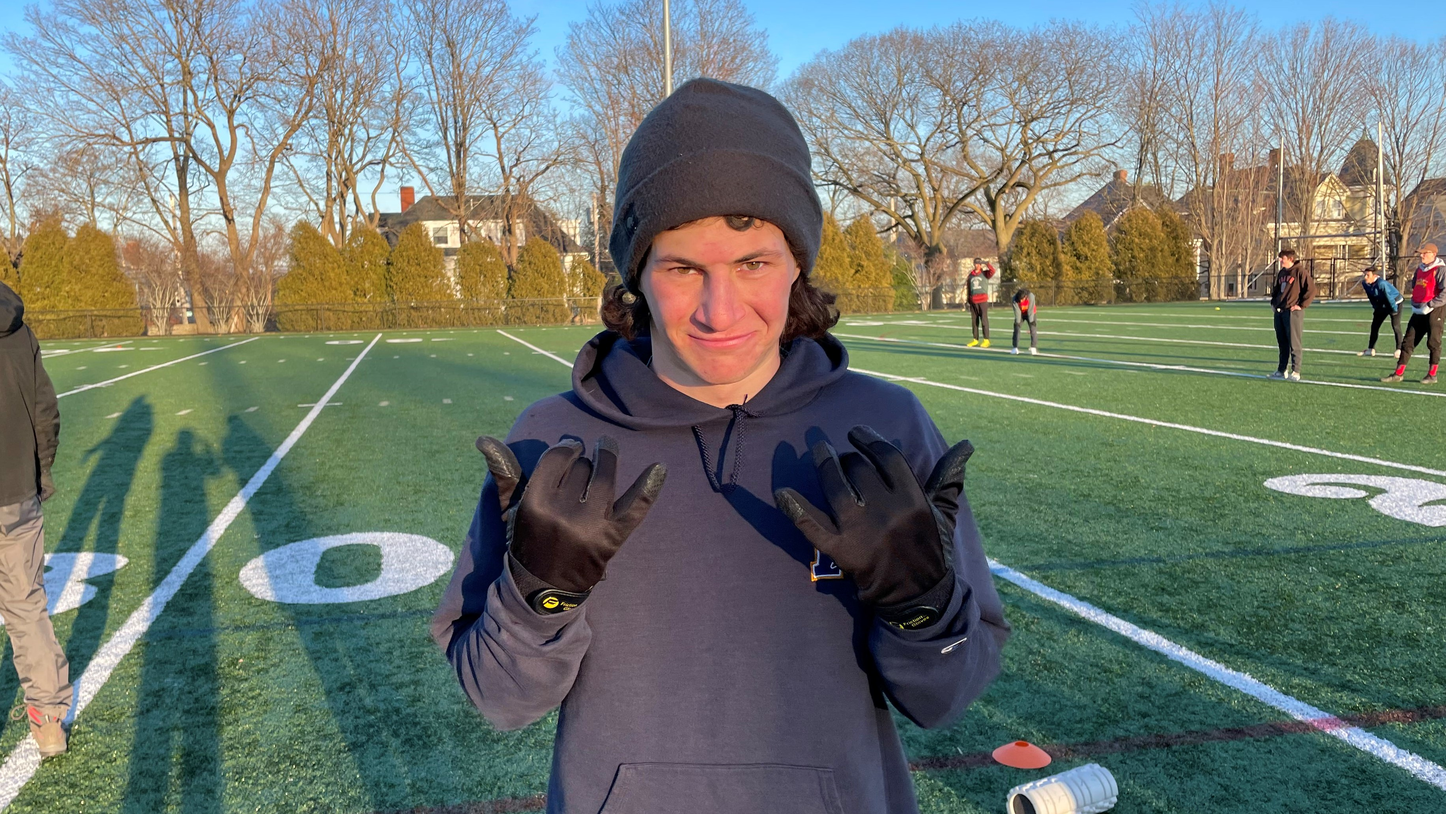
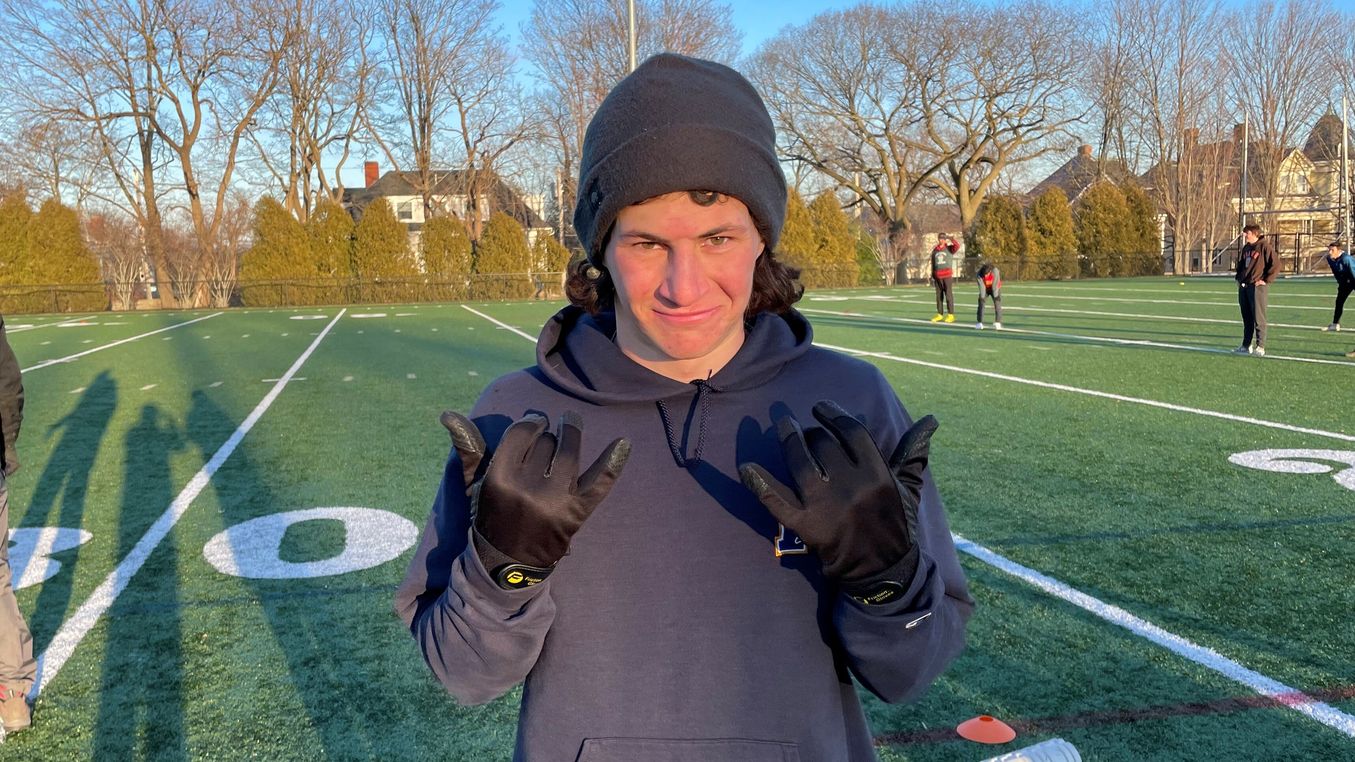
pic cropping and minor changes

diff --git a/roster.html b/roster.html
@@ -71,30 +71,33 @@
 						<div class="container">
 						  <h2>Caleb Moran</h2>
 						  <p>Class year: 2025</p>
+							<p>Hometown: Arlington, VA</p>
 						  <p>Nickname: Cleb</p>
 						  <button class="button" onclick="onbtnclick('popup', 'cleb')">More</button>
 						</div>
 					  </div>
 					</div>
-				  
+
 					<div class="column">
 						<div class="card">
 						  <img src="photos/images/biopics/yut.jpg" alt="Yut" class="biopic">
 						  <div class="container">
 							<h2>Elliott Rosenberg</h2>
 							<p>Class year: 2024</p>
+							<p>Hometown: Oakland, CA</p>
 							<p>Nickname: Yut</p>
 							<button class="button" onclick="onbtnclick('popup', 'yut')">More</button>
 						  </div>
 						</div>
 					  </div>
-				  
+
 					  <div class="column">
 						<div class="card">
 						  <img src="photos/images/biopics/dyl.jpg" alt="Dyl" class="biopic">
 						  <div class="container">
 							<h2>Dylan Villeneuve</h2>
 							<p>Class year: 2022</p>
+							<p>Hometown: Berkeley, CA</p>
 							<p>Nickname: Dyl</p>
 							<button class="button" onclick="onbtnclick('popup', 'dyl')">More</button>
 						  </div>
@@ -107,6 +110,7 @@
 						  <div class="container">
 							<h2>Cameron Curney</h2>
 							<p>Class year: 2024</p>
+							<p>Hometown: Abington, MA</p>
 							<p>Nickname: Cam</p>
 							<button class="button" onclick="onbtnclick('popup', 'cam')">More</button>
 						  </div>
@@ -119,6 +123,7 @@
 						  <div class="container">
 							<h2>Luca Duclos-Orsello</h2>
 							<p>Class year: 2024</p>
+							<p>Hometown: Somerville, MA</p>
 							<p>Nickname: The Cheesman of North Ubmria</p>
 							<button class="button" onclick="onbtnclick('popup', 'luca')">More</button>
 						  </div>
@@ -131,6 +136,7 @@
 						  <div class="container">
 							<h2>Morgann Thain</h2>
 							<p>Class year: 2022</p>
+							<p>Hometown: Abington, PA</p>
 							<p>Nickname: Mdog</p>
 							<button class="button" onclick="onbtnclick('popup', 'matias')">More</button>
 						  </div>
@@ -143,24 +149,26 @@
 						  <div class="container">
 							<h2>Noah Ball-Burack</h2>
 							<p>Class year: 2024</p>
+							<p>Hometown: Berkeley, MA</p>
 							<p>Nickname: Bert</p>
 							<button class="button" onclick="onbtnclick('popup', 'noah')">More</button>
 						  </div>
 						</div>
 					  </div>
-					  
+
 					  <div class="column">
 						<div class="card">
 						  <img src="photos/images/biopics/matias.jpg" alt="Matias" class="biopic">
 						  <div class="container">
 							<h2>Matias Lee</h2>
 							<p>Class year: 2025</p>
+							<p>Hometown: Hanover, NH</p>
 							<p>Nickname: Teez</p>
 							<button class="button" onclick="onbtnclick('popup', 'morgann')">More</button>
 						  </div>
 						</div>
 					  </div>
-					 
+
 
 					  <div class="column">
 						<div class="card">
@@ -168,6 +176,7 @@
 						  <div class="container">
 							<h2>Oscar Low</h2>
 							<p>Class year: 2025</p>
+							<p>Hometown: Williamstown, MA</p>
 							<p>Nickname: OLow</p>
 							<button class="button" onclick="onbtnclick('popup', 'olow')">More</button>
 						  </div>
@@ -180,6 +189,7 @@
 						  <div class="container">
 							<h2>Martin Trouilloud</h2>
 							<p>Class year: 2023</p>
+							<p>Hometown: Norwood, NJ</p>
 							<p>Nickname: Marty</p>
 							<button class="button" onclick="onbtnclick('popup', 'marty')">More</button>
 						  </div>
@@ -192,6 +202,7 @@
 						  <div class="container">
 							<h2>Talon Johnson</h2>
 							<p>Class year: 2022</p>
+							<p>Hometown: Kangaroo Court, KS</p>
 							<p>Nickname: Trails</p>
 							<button class="button" onclick="onbtnclick('popup', 'trails')">More</button>
 						  </div>
@@ -204,6 +215,7 @@
 						  <div class="container">
 							<h2>Patrick Connor</h2>
 							<p>Class year: 2024</p>
+							<p>Hometown: Austin, TX</p>
 							<p>Nickname: Archduke Slimy Man</p>
 							<button class="button" onclick="onbtnclick('popup', 'patrick')">More</button>
 						  </div>
@@ -216,6 +228,7 @@
 						  <div class="container">
 							<h2>Kaleb Zuckerman</h2>
 							<p>Class year: 2025</p>
+							<p>Hometown: Northampton, MA</p>
 							<p>Nickname: Zuck</p>
 							<button class="button" onclick="onbtnclick('popup', 'zuck')">More</button>
 						  </div>
@@ -228,6 +241,7 @@
 						  <div class="container">
 							<h2>Andy Burris</h2>
 							<p>Class year: 2025</p>
+							<p>Hometown: Washington, DC</p>
 							<p>Nickname: Burris With A 'B'</p>
 							<button class="button" onclick="onbtnclick('popup', 'andy')">More</button>
 						  </div>
@@ -238,8 +252,9 @@
 						<div class="card">
 						  <img src="photos/images/biopics/dice.jpg" alt="Dice" class="biopic">
 						  <div class="container">
-							<h2>Jackson De Campos</h2>
+							<h2>Jackson De Campos (captain)</h2>
 							<p>Class year: 2022</p>
+							<p>Hometown: Seattle, WA</p>
 							<p>Nickname: Dice</p>
 							<button class="button" onclick="onbtnclick('popup', 'dice')">More</button>
 						  </div>
@@ -252,6 +267,7 @@
 						  <div class="container">
 							<h2>Graham Huntington</h2>
 							<p>Class year: 2024</p>
+							<p>Hometown: Starksboro, VT</p>
 							<p>Nickname: Grunt</p>
 							<button class="button" onclick="onbtnclick('popup', 'graham')">More</button>
 						  </div>
@@ -262,8 +278,9 @@
 						<div class="card">
 						  <img src="photos/images/biopics/john.jpg" alt="John" class="biopic">
 						  <div class="container">
-							<h2>John Randolph</h2>
+							<h2>John Randolph (captain)</h2>
 							<p>Class year: 2022</p>
+							<p>Hometown: Seattle, WA</p>
 							<p>Nickname: JR</p>
 							<button class="button" onclick="onbtnclick('popup', 'john')">More</button>
 						  </div>
@@ -276,6 +293,7 @@
 						  <div class="container">
 							<h2>Ian Layzer</h2>
 							<p>Class year: 2023</p>
+							<p>Hometown: Durham, NC</p>
 							<p>Nickname: Layzer</p>
 							<button class="button" onclick="onbtnclick('popup', 'ian')">More</button>
 						  </div>
@@ -288,6 +306,7 @@
 						  <div class="container">
 							<h2>Will Steinfeld</h2>
 							<p>Class year: 2024</p>
+							<p>Hometown: Lexington, MA</p>
 							<p>Nickname: Willis</p>
 							<button class="button" onclick="onbtnclick('popup', 'willis')">More</button>
 						  </div>
@@ -298,8 +317,9 @@
 						<div class="card">
 						  <img src="photos/images/biopics/boyce.jpg" alt="Boyce" class="biopic">
 						  <div class="container">
-							<h2>William Boyce</h2>
+							<h2>William Boyce V</h2>
 							<p>Class year: 2025</p>
+							<p>Hometown: Old Tappan, NJ</p>
 							<p>Nickname: Boyce</p>
 							<button class="button" onclick="onbtnclick('popup', 'boyce')">More</button>
 						  </div>
@@ -312,6 +332,7 @@
 						  <div class="container">
 							<h2>Zach Kaufman</h2>
 							<p>Class year: 2024</p>
+							<p>Hometown: Lexington, MA</p>
 							<p>Nickname: Zach</p>
 							<button class="button" onclick="onbtnclick('popup', 'zach')">More</button>
 						  </div>
@@ -324,6 +345,7 @@
 						  <div class="container">
 							<h2>Leo Tamagawa Gordon</h2>
 							<p>Class year: 2023</p>
+							<p>Hometown: Berkeley, CA</p>
 							<p>Nickname: Leland</p>
 							<button class="button" onclick="onbtnclick('popup', 'leo')">More</button>
 						  </div>
@@ -336,6 +358,7 @@
 						  <div class="container">
 							<h2>Cal Nightingale</h2>
 							<p>Class year: 2024</p>
+							<p>Hometown: Durham, NC</p>
 							<p>Nickname: Munch</p>
 							<button class="button" onclick="onbtnclick('popup', 'munch')">More</button>
 						  </div>
@@ -346,14 +369,15 @@
 						<div class="card">
 						  <img src="photos/images/biopics/jac.jpg" alt="Jac" class="biopic">
 						  <div class="container">
-							<h2>Jacques Nissen</h2>
+							<h2>Jacques Nissen (captain)</h2>
 							<p>Class year: 2024</p>
+							<p>Hometown: Washington, DC</p>
 							<p>Nickname: Moped</p>
 							<button class="button" onclick="onbtnclick('popup', 'jac')">More</button>
 						  </div>
 						</div>
 					  </div>
-	  
+
 			</div>
 		</div>
 

diff --git a/assets/css/main.css b/assets/css/main.css
@@ -82,7 +82,7 @@ input, select, textarea {
 	margin-bottom: 16px;
 	padding: 0 8px;
   }
-  
+
   /* Display the columns below each other instead of side by side on small screens */
   @media screen and (max-width: 650px) {
 	.column {
@@ -90,28 +90,32 @@ input, select, textarea {
 	  display: block;
 	}
   }
-  
+
   /* Add some shadows to create a card effect */
   .card {
 	box-shadow: 0 4px 8px 0 rgba(0, 0, 0, 0.2);
   }
-  
+
   /* Some left and right padding inside the container */
   .container {
 	padding: 0 16px;
   }
-  
+
+	.container p {
+		margin-bottom: 1em;
+	}
+
   /* Clear floats */
   .container::after, .row::after {
 	content: "";
 	clear: both;
 	display: table;
   }
-  
+
   .title {
 	color: grey;
   }
-  
+
   .button {
 	border: none;
 	outline: 0;
@@ -123,7 +127,7 @@ input, select, textarea {
 	cursor: pointer;
 	width: 100%;
   }
-  
+
   .button:hover {
 	background-color: #555;
   }
@@ -143,7 +147,7 @@ input, select, textarea {
 	background-color: rgba(0,0,0,0.4); /* Black w/ opacity */
 	-ms-overflow-style: none; /* Hide scrollbar for IE and Edge */
   }
-  
+
   /* Modal Content/Box */
   .modal-content {
 	background-color: #fefefe;
@@ -157,7 +161,7 @@ input, select, textarea {
   .modal::-webkit-scrollbar {
 	  display: none;
   }
-  
+
   /* The Close Button */
   .close {
 	color: #aaa;
@@ -165,7 +169,7 @@ input, select, textarea {
 	font-size: 28px;
 	font-weight: bold;
   }
-  
+
   .close:hover,
   .close:focus {
 	color: black;
@@ -2171,7 +2175,7 @@ input, select, textarea {
 /* Logo */
 
 	#logo {
-		
+
 		text-align: center;
 		position: relative;
 		top: 1.5em;
@@ -2226,7 +2230,7 @@ input, select, textarea {
 				#nav > ul > li > a, #nav > ul > li > span {
 					display: block;
 					color: white;
-					
+
 					text-transform: uppercase;
 					text-decoration: none;
 					font-size: 0.8em;
